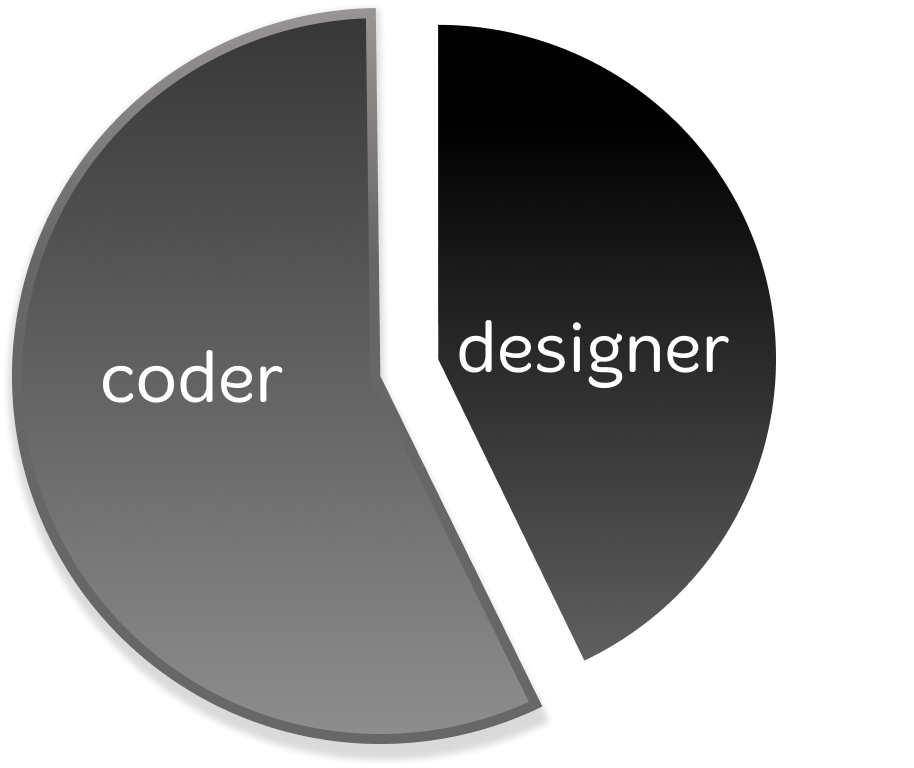
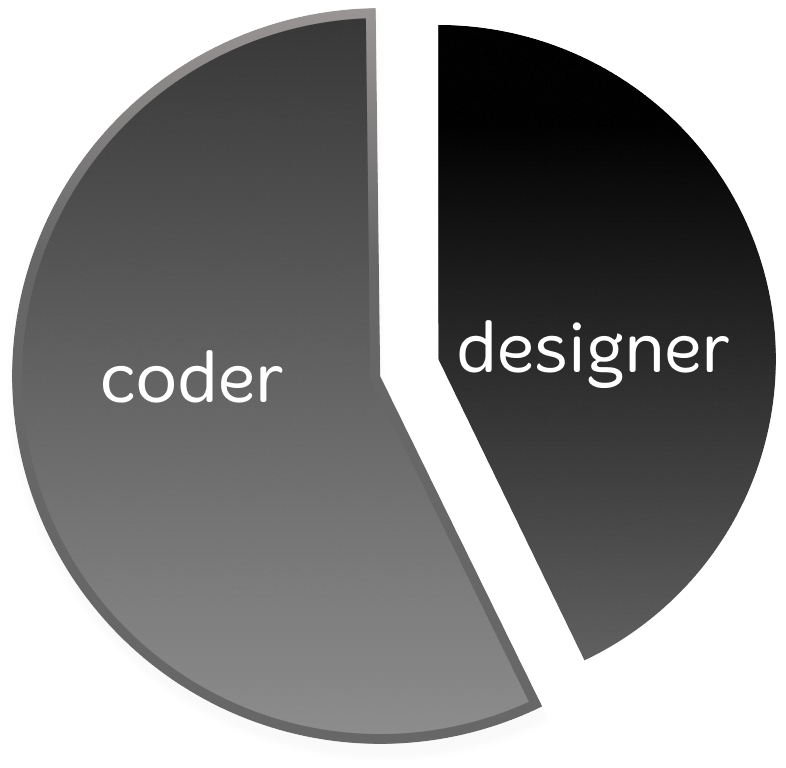
responsive

Changed region(s): [[0.0, 0.0, 1.0, 1.0], [0.0916, 0.4375, 0.3664, 0.5312]]

diff --git a/styles/skill.css b/styles/skill.css
@@ -24,6 +24,7 @@
    margin-left: auto;
    display: flex;
    flex-direction: row;
+   align-items: center;
    flex-wrap: wrap;
    justify-content: space-evenly;
 }
@@ -63,7 +64,6 @@
 }
 
 #skil_list>div:nth-child(2){
-   margin-left: 35px;
    align-self: center;
 }
 
@@ -84,17 +84,19 @@
 
 #piechart img{
    margin-top: 160px;
-   margin-left: 20px;
 }
 
 @media all and (max-width: 768px) {
    #piechart img{
+      width: 300px;
       margin-top: 100px;
       margin-bottom: 20px;
-      margin-left: 0px;
    }
 }
 @media all and (max-width: 435px) {
+   #skil_list{
+      justify-content: center;
+   }
    #skill>section:first-child>div>h2{
       font-size: 70px;
    }
@@ -109,9 +111,9 @@
       font-size: 40px;
    }
    #piechart img{
+      align-self: center;
       margin-bottom: 48px;
-      width: 300px;
-      margin-left: -49px;
+      width: 200px;
    }
 
    }
